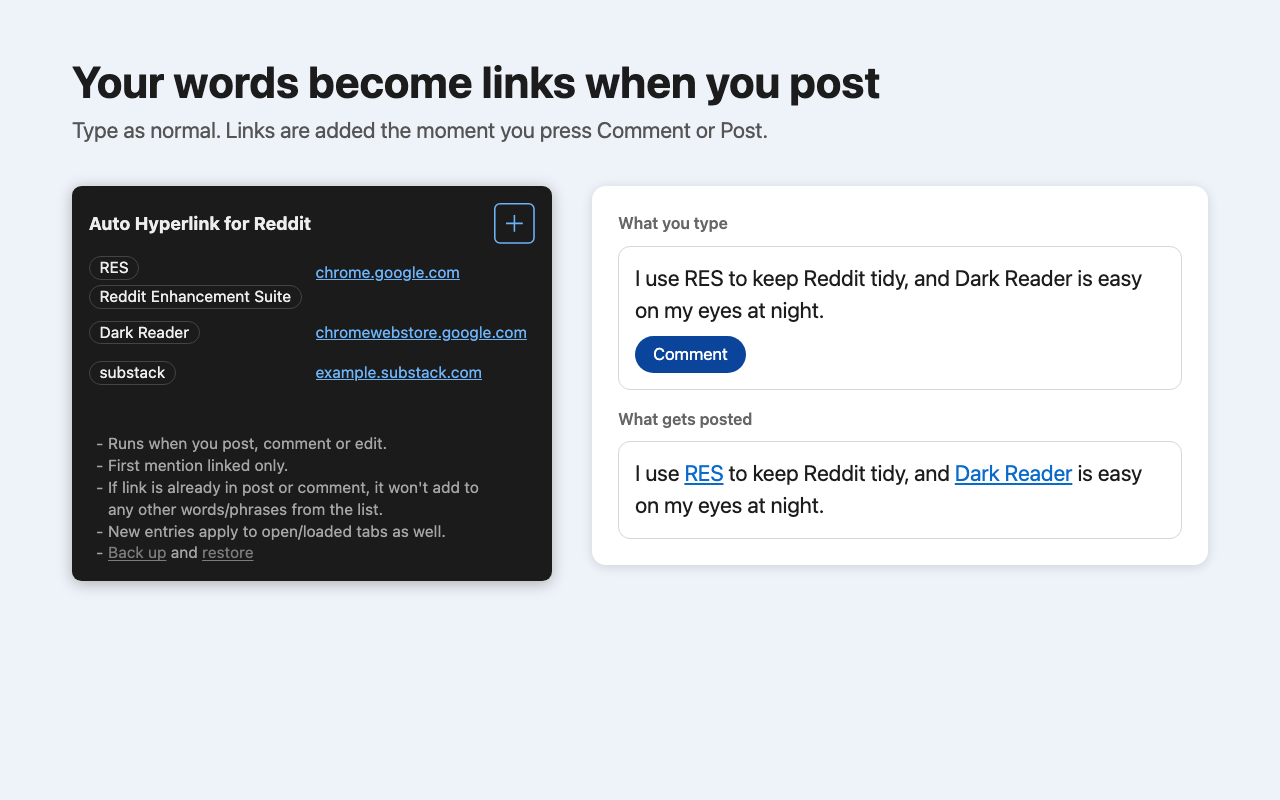
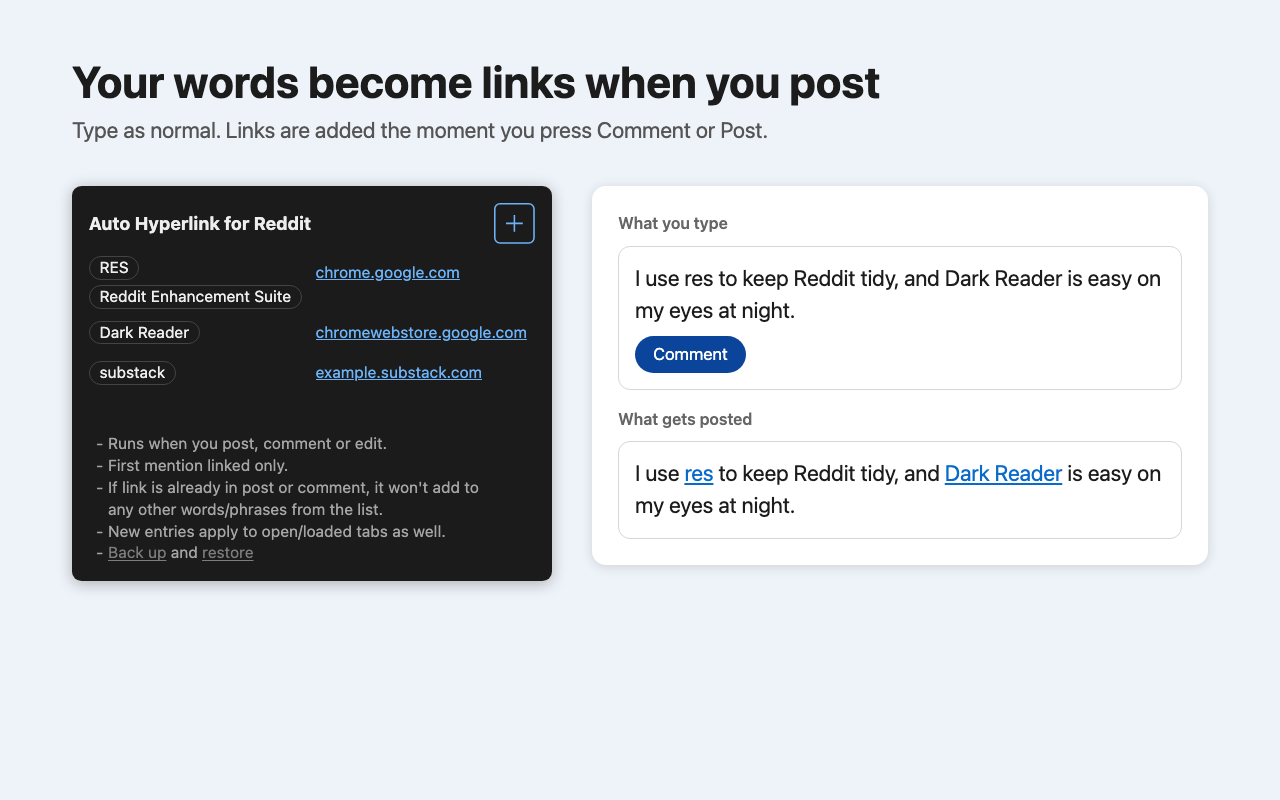
Store screenshot: type res in lowercase to show case doesn't matter

Changed region(s): [[0.5, 0.5625, 0.9062, 0.6562], [0.5, 0.3125, 0.9062, 0.4062]]

diff --git a/store/screenshot.html b/store/screenshot.html
@@ -40,8 +40,8 @@
   </div>
   <div class="card">
     <div class="tag">What you type</div>
-    <div class="box">I use RES to keep Reddit tidy, and Dark Reader is easy on my eyes at night.<br><span class="btn">Comment</span></div>
+    <div class="box">I use res to keep Reddit tidy, and Dark Reader is easy on my eyes at night.<br><span class="btn">Comment</span></div>
     <div class="tag">What gets posted</div>
-    <div class="box" style="margin:0">I use <a href="#">RES</a> to keep Reddit tidy, and <a href="#">Dark Reader</a> is easy on my eyes at night.</div>
+    <div class="box" style="margin:0">I use <a href="#">res</a> to keep Reddit tidy, and <a href="#">Dark Reader</a> is easy on my eyes at night.</div>
   </div>
 </div>
